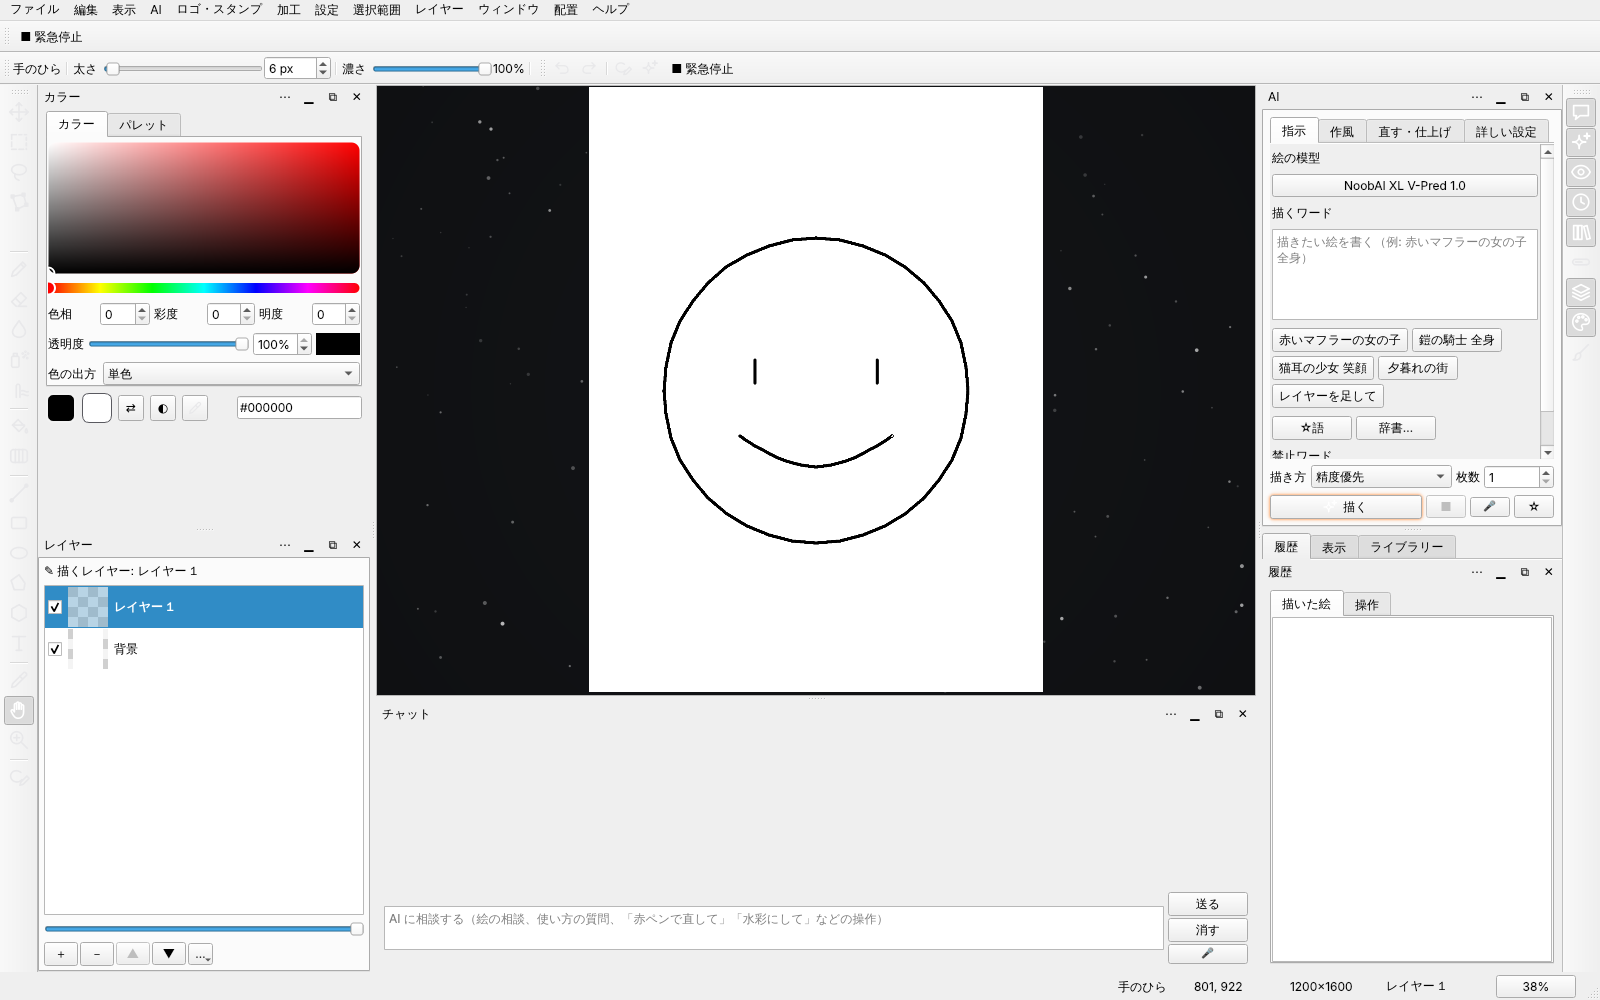
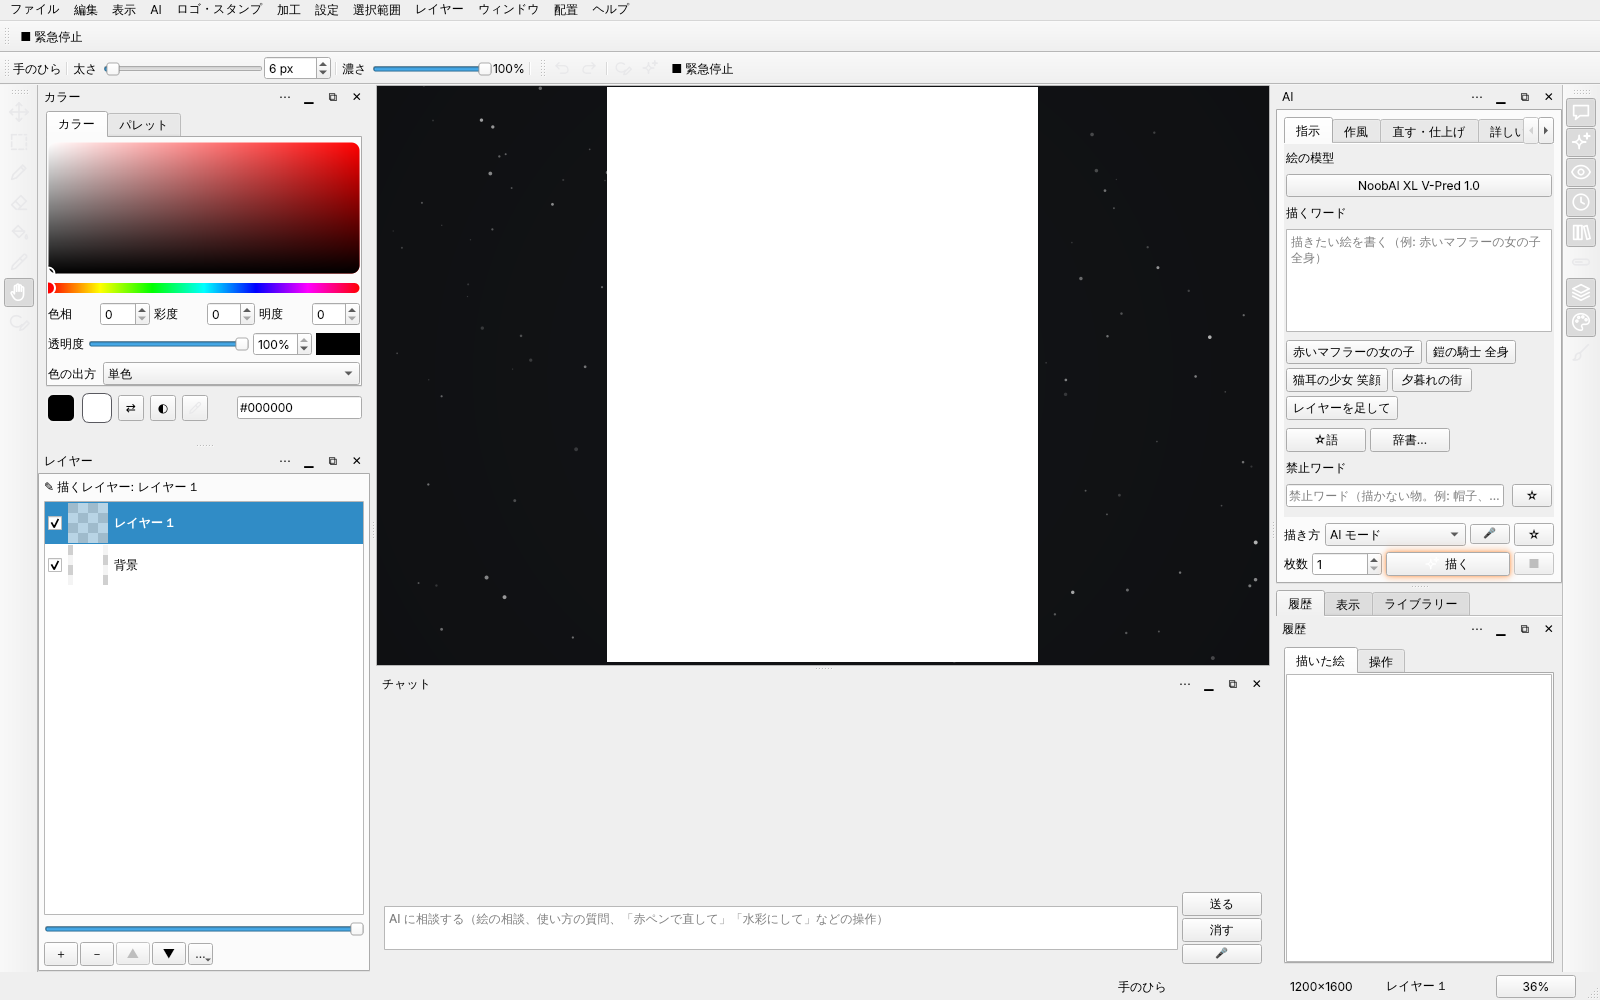
0.1.9: AI の欄の指示のタブとチャットの欄の流す棒を直す (#13)
- おすすめの配置で、右の列を 5:5 で配ったまま中身に合わせていなかった。AI の欄に指示のタブが流れずに収まる高さを渡し、残りを履歴に回す。両方は収まらない低い窓では、左の列と同じくタブにまとめて AI を前に出す（Qt は既にタブで重ねた組の側を重ねる呼び方を無視するので、AI を組へ重ねる）
- 狭い窓では、絵の下だけだとチャットが幅 160 に潰れていた。左右の列を除いた幅がチャットの中身より狭いときは、下の左の角をチャットに渡す。絵の幅はチャットの最小の幅に支えられていたので、絵に最小の幅 160 を付けて前と同じ幅を残す
- test_panels の欄の組み合わせの確かめが、浮いた欄にタブで重ねた欄（Qt の浮いたタブの組の窓に入る）を消えたと数えていた。組の窓が画面に出ていれば見えているとみなす
- README の窓の写しを撮り直した

diff --git a/atelier/ui/layouts.py b/atelier/ui/layouts.py
@@ -19,6 +19,7 @@ VERSION = 1
 def _reset(w):
     """欄をいったん全部くっつけ直す（別ウィンドウや畳んだ物も戻す）"""
     w.__dict__.pop("_fit_cols", None)
+    w.__dict__.pop("_fit_ai", None)
     if hasattr(w, "return_all"):
         w.return_all()   # まとめた窓の欄と帯も主の窓へ戻してから並べる
     for d, _ in w.panels.values():
@@ -58,7 +59,13 @@ def need(w, key: str) -> int:
     head = title.sizeHint().height() if title is not None else 24
     if w.tabifiedDockWidgets(d):   # タブで重ねた欄は、タブの見出しの分も要る
         head += d.fontMetrics().height() + 14
-    return inner.minimumSizeHint().height() + head + 12
+    body_h = inner.minimumSizeHint().height()
+    # AI の欄は、中身をタブの中で流す形なので最小の高さが小さい。指示のタブが流れずに収まるまでに足りない分を欄に聞いて足す
+    from PySide6.QtWidgets import QWidget
+    fits = [c for c in [inner] + inner.findChildren(QWidget) if hasattr(c, "fit_height")]
+    if fits and fits[0].height() > 0:
+        return max(body_h, inner.height() + fits[0].fit_height() - fits[0].height()) + head + 2   # 測った高さなので余りは足さない
+    return body_h + head + 12
 
 
 def _group(w, d) -> list:
@@ -94,6 +101,32 @@ def fit_heights(w, keys: list[str], final: bool = False):
         return
     want[-1] += room - sum(want)
     w.resizeDocks(docks, want, Qt.Vertical)
+
+
+def fit_ai(w, final: bool = False):
+    """右の列（上に AI、下に履歴のタブの組）の高さ。AI の欄に指示のタブが流れずに収まる高さを渡し、残りを履歴に回す。
+    両方は収まらない低い窓では、比で削るとどちらにも流す棒が出るので、左の列と同じくタブにまとめ、AI を前に出す。
+    履歴の組（履歴・表示・ライブラリー）は既にタブで重ねてあり、そこへ AI を重ねる（Qt は組の側を重ねる呼び方を無視した）。
+    並べた直後は欄の高さが前の配置のままなので、まとめるのは並べ終わったあと（settle の final）だけにする"""
+    w.__dict__["_fit_ai"] = True
+    ai, hist = w.panels["chat"][0], w.panels["history"][0]
+    if any(d.isHidden() or d.isFloating() for d in (ai, hist)) or ai in w.tabifiedDockWidgets(hist):
+        return
+    front = _front(w, hist)
+    if w.dockWidgetArea(ai) != w.dockWidgetArea(front) or ai.geometry().bottom() > front.geometry().top():
+        return   # 利用者が動かした配置（AI が履歴の上に無い）には触らない
+    want = need(w, "chat")
+    title = front.titleBarWidget()
+    body = front.widget()
+    inner = body.widget() if hasattr(body, "widget") and body.widget() is not None else body
+    # 履歴の組は一覧なので、目安の余り（need）ではなく、中身の本当の最小で入るかを見る
+    least = inner.minimumSizeHint().height() + (title.sizeHint().height() if title is not None else 24) + 2
+    room = ai.height() + front.height()
+    if want + least <= room:
+        w.resizeDocks([ai, front], [want, room - want], Qt.Vertical)
+    elif final:
+        w.tabifyDockWidget(front, ai)
+        ai.raise_()
 
 
 def _top_first(w, keys: list[str]):
@@ -151,6 +184,10 @@ def settle(w):
         fronts = [_front(w, d) for d in docks]
         if any(f.height() < need(w, k) - 4 for f, k in zip(fronts, keys) if f is w.panels[k][0]):
             fit_heights(w, keys, final=True)
+    if w.__dict__.get("_fit_ai"):
+        ai = w.panels["chat"][0]
+        if not ai.isHidden() and not ai.isFloating() and ai.height() < need(w, "chat") - 4:
+            fit_ai(w, final=True)
     # 左右の欄の幅も、中身より狭くなった欄だけ広げる
     for k, (d, _) in w.panels.items():
         if d.isHidden() or d.isFloating() or d.visibleRegion().isEmpty() or w.dockWidgetArea(d) not in (L, R):
@@ -243,9 +280,17 @@ def recommended(w):
     w.panels["talk"][0].show()
     side = min(320, max(260, int(max(w.width(), 1200) * 0.19)))
     _widths(w, ["color", "layers"], ["chat", "history", "view", "library"], side)
+    # 狭い窓（800 など）では、絵の下だけだとチャットが幅 160 に潰れて横に流す棒が出た。
+    # 左右の列を除いた幅がチャットの中身より狭いときは、下の左の角をチャットに渡し、左の列の下まで広げる
+    cols = sum(max(side, need_width(w, k)) for k in ("color", "chat"))
+    if w.width() - cols - 80 < need_width(w, "talk"):
+        w.setCorner(Qt.BottomLeftCorner, B)
     # チャットは会話を読み返せる高さにする（200 のままだと 1080 の高さでも吹き出しが 2 つしか見えなかった。低い画面では絵の場所を残す）
     fit_talk(w, 200 if w.height() < 900 else int(w.height() * 0.3))
     fit_heights(w, ["color", "layers"])
+    # 右の列も中身から配る。5:5 のままだと、どの窓の大きさでも AI の欄の指示のタブに縦の流す棒が出て、
+    # 下の履歴だけが空いた場所を取った
+    fit_ai(w)
     _progress_idle(w)
     _first_tool(w, "hand")
 

diff --git a/atelier/panels/ai_panel.py b/atelier/panels/ai_panel.py
@@ -99,6 +99,12 @@ class Section(QScrollArea):
         outer.addStretch()
         self.setWidget(self.box)
 
+    def content_height(self) -> int:
+        """中身が縦の流す棒を出さずに収まる高さ。折り返す並び（登録のボタン）は、棒の無い今の幅で測る"""
+        lay = self.box.layout()
+        width = self.width()
+        return lay.totalHeightForWidth(width) if lay.hasHeightForWidth() else self.box.sizeHint().height()
+
     def is_open(self) -> bool:
         return self.tabs.currentWidget() is self
 
@@ -110,6 +116,14 @@ class Section(QScrollArea):
 
 class AiPanel(QWidget):
     changed = Signal()
+
+    def fit_height(self) -> int:
+        """今のタブの中身が、タブの中で流れずに収まる欄の高さ（欄の配置が右の列の高さを配るときに使う）。
+        最小の大きさにはしない。低い窓では今までどおりタブの中だけを流して、窓の大きさを縛らない"""
+        sec = self.tabs.currentWidget()
+        if not isinstance(sec, Section) or sec.height() <= 0:
+            return self.minimumSizeHint().height()
+        return self.height() - sec.height() + sec.content_height()
 
     def __init__(self, w):
         super().__init__()

diff --git a/tests/test_panels.py b/tests/test_panels.py
@@ -54,7 +54,11 @@ def lost(w) -> list:
             if title.collapsed:
                 bad.append((k, "別ウィンドウなのに畳んだまま"))
         elif w.dockWidgetArea(d) == Qt.NoDockWidgetArea:
-            bad.append((k, "置き場所が無い"))
+            # 浮いた欄にタブで重ねた欄は、Qt の浮いたタブの組の窓に入り、isFloating も置き場所も無いと返す。
+            # その窓が画面の中に出ていれば見えている（消えたと数えると、全部浮かせる → タブ が落ちた）
+            group = d.window()
+            if group is w or not group.isVisible() or not screen.intersects(group.frameGeometry()):
+                bad.append((k, "置き場所が無い"))
         if not title.collapsed:
             if body.isHidden():
                 bad.append((k, "中身が隠れたまま"))

diff --git a/atelier/app/main_window.py b/atelier/app/main_window.py
@@ -149,6 +149,9 @@ class Window(FilesMixin, AiDrawingMixin, AiResultsMixin, ChatMixin, PromptsMixin
         self.canvas.set_cursor_style(self.settings.get("cursor"))
         self.canvas.new_canvas()
         self.setCentralWidget(self.canvas)
+        # 狭い窓（800 など）でも絵の幅を残す。下のチャットを左の列の下へ広げると、絵の幅を支えていたチャットの最小の幅が
+        # 無くなり、左右の欄に押されて絵が 90 ほどに潰れた（前の版は 160 だった）
+        self.canvas.setMinimumWidth(160)
         self.canvas.menu_wanted.connect(self.canvas_menu)
         self.canvas.hide_cursor_after = 1500 if self.settings.get("cursor_hide") == "止まったら隠す" else 0
 

diff --git a/CHANGELOG.md b/CHANGELOG.md
@@ -2,6 +2,11 @@
 
 版の番号は根の `VERSION` に 1 か所だけ置く。画面（`app/web/package.json`）、サーバー（`/openapi.json` の version）、Setup.exe の表示はそこに合わせる。
 
+## 0.1.10（2026-11-22）
+
+- AI の欄の「指示」のタブに、どの窓の大きさでも縦の流す棒が出ていたのを直しました。「おすすめ」の配置で、AI の欄に指示のタブが収まる高さを渡し、残りを履歴に回します。両方は収まらない低い窓（1366×768 など）では、AI を前にして履歴とタブにまとめます。並びは変えていません。
+- 狭い窓（800×800 など）で、下のチャットの欄が幅 160 に潰れ、横の流す棒が出ていたのを直しました。チャットを左の列の下まで広げます。絵の幅は前と同じく 160 を残します。
+
 ## 0.1.9（2026-11-22）
 
 - Setup.exe を画面で進めて入れるとき、前の版の AtelIer が動いていると、上書きで「書き込めません」の窓が出て入れられなかったのを直しました。動いているときは、閉じてよいかを聞いてから閉じて入れます。
